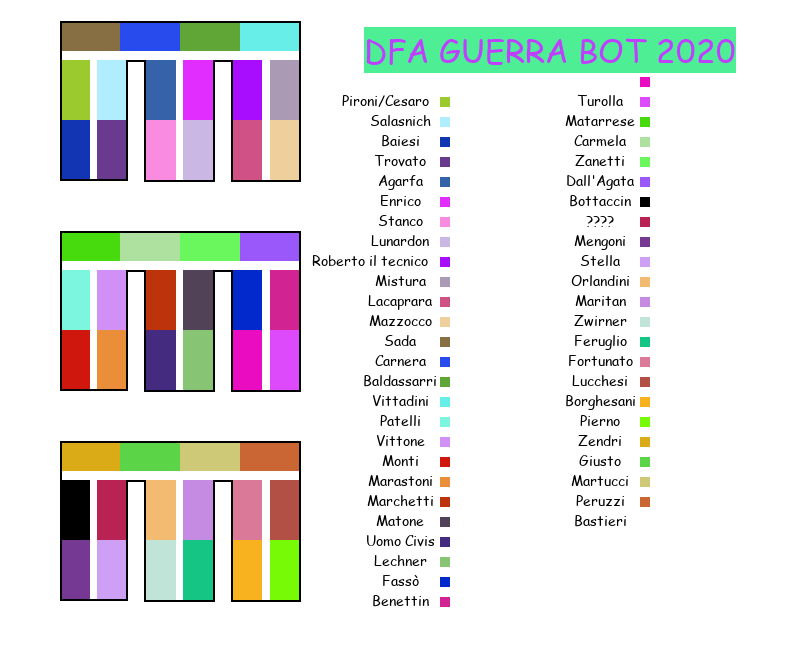
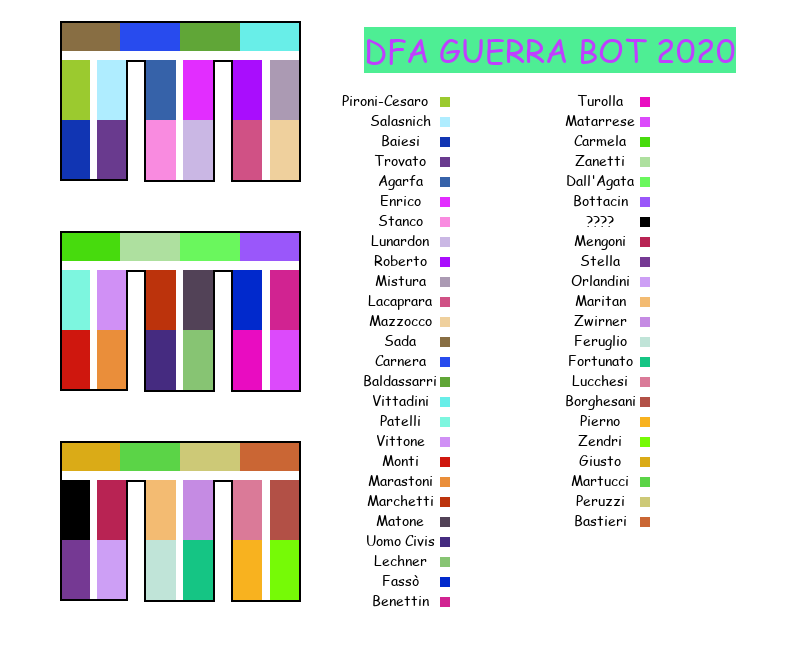
.

Changed region(s): [[0.7188, 0.1231, 0.8125, 0.8308], [0.375, 0.3692, 0.5312, 0.4308], [0.4688, 0.1538, 0.5312, 0.1846]]

diff --git a/main.py b/main.py
@@ -4,7 +4,7 @@ import secrets
 # Modalità:
 # 0 - fa una partita completa da capo, senza grafica
 # 1 - fa una partita completa dallo stato salvato, senza grafica
-# 2 - legge il file salvato, fa una mossa, mostra la mappa
+# 2 - legge il file salvato, fa una mossa, mostra la mappa, salva alternativo
 # 3 - legge il file salvato, fa una mossa, mostra la mappa, salva file + screen
 # 4 - istogramma vincitori da capo
 # 5 - istogramma vincitori da stato salvato
@@ -47,11 +47,12 @@ NAMES = [
     'Lechner',
     'Fassò',
     'Benettin',
+    'Turolla',
     'Matarrese',
     'Carmela',
     'Zanetti',
     "Dall'Agata",
-    'Bottaccin',
+    'Bottacin',
     '????',
     'Mengoni',
     'Stella',
@@ -247,19 +248,18 @@ elif mode == 2 or mode == 3:
         
         print(NAMES[winner] + " ha occupato l'ufficio di " + \
               NAMES[target_location], end='')
-        
         if target_location != loser:
-            print(" precedentemente occupato da " + NAMES[loser])
-        else:
-            print(".")
+            print(" precedentemente occupato da " + NAMES[loser], end='')
+        print(".")
               
         if players[loser] == []:
-            print(NAMES[loser] + " è stato completamente sconfitto")
+            print(NAMES[loser] + " è stato completamente sconfitto.")
         
         legend = generate_legend(players)
         new_colors = generate_color_list(players)
        
         if mode == 2:
+            write_players(players, "temp_state.txt")
             map.replot(legend, new_colors, 0)
         elif mode == 3:
             write_players(players, "saved_state.txt")

diff --git a/map.py b/map.py
@@ -340,13 +340,13 @@ def replot(colorv, colorv1, save_image):
     #Title
     pg.init()
     pg.display.set_caption('DFA GUERRA BOT 2020')
-    font = pg.font.SysFont('comicsansmsttf', 32)
+    font = pg.font.SysFont(comicsans, 32)
     text = font.render('DFA GUERRA BOT 2020', True, orchid, acquamarine)
     textRect = text.get_rect()
     textRect.center = (550, 50)
     screen.blit(text, textRect)
-    font = pg.font.SysFont('comicsansmsttf', 14)
-    text1 = font.render('Pironi/Cesaro', True, black, white)
+    font = pg.font.SysFont(comicsans, 14)
+    text1 = font.render('Pironi-Cesaro', True, black, white)
     textRect = text1.get_rect()
     textRect.center = (385, 100)
     screen.blit(text1, textRect)
@@ -378,9 +378,9 @@ def replot(colorv, colorv1, save_image):
     textRect = text1.get_rect()
     textRect.center = (400, 240)
     screen.blit(text1, textRect)
-    text1 = font.render('Roberto il tecnico', True, black, white)
+    text1 = font.render('Roberto', True, black, white)
     textRect = text1.get_rect()
-    textRect.center = (370, 260)
+    textRect.center = (400, 260)
     screen.blit(text1, textRect)
     text1 = font.render('Mistura', True, black, white)
     textRect = text1.get_rect()
@@ -470,7 +470,7 @@ def replot(colorv, colorv1, save_image):
     textRect = text1.get_rect()
     textRect.center = (600, 180)
     screen.blit(text1, textRect)
-    text1 = font.render('Bottaccin', True, black, white)
+    text1 = font.render('Bottacin', True, black, white)
     textRect = text1.get_rect()
     textRect.center = (600, 200)
     screen.blit(text1, textRect)
